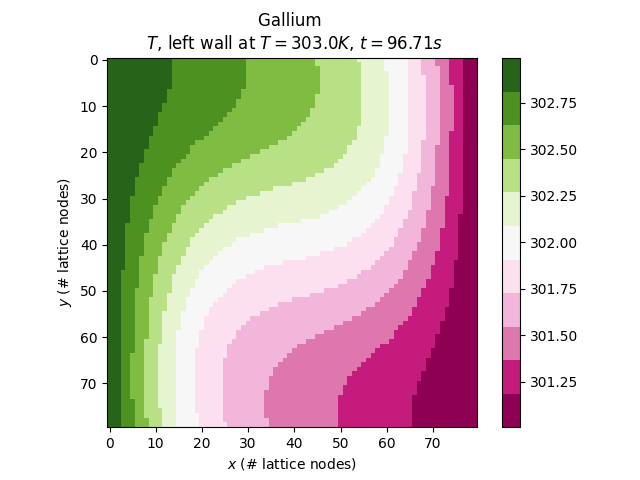
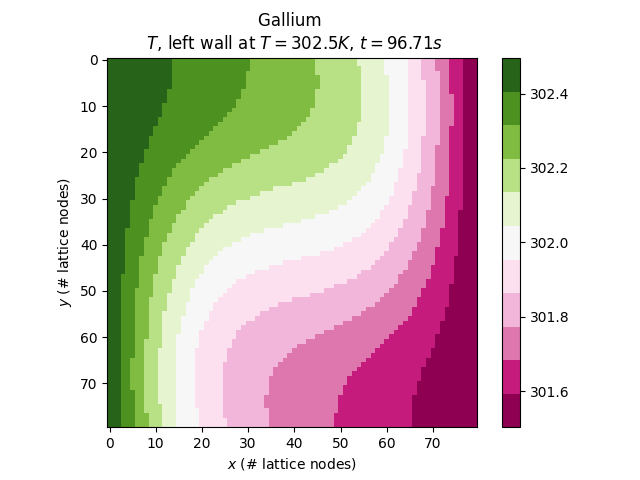
Plots of velocities are correct 26 mei

diff --git a/Working code/LBM_Tlin_MRT_natural_conv.py b/Working code/LBM_Tlin_MRT_natural_conv.py
@@ -11,8 +11,8 @@ np.set_printoptions(threshold=sys.maxsize)
 pd.set_option("display.max_rows", None, "display.max_columns", None)
 pd.set_option('display.expand_frame_repr', False)
 path_name = "/Users/Jesper/Documents/MEP/Code/Working code/Figures/"
-suffix = "_Ra105_test1.png"
-Nresponse = 250000
+suffix = "_Ra105_SRT2.png"
+Nresponse = 125000
 
 # # Physical parameters gallium
 # Time = 1140         # (s)
@@ -41,12 +41,13 @@ nu_phys = 1.568e-5
 beta_phys = 0.0034
 cp_phys = 1.0049e3
 alpha_phys = lbda_phys / (rho_phys * cp_phys)
+print(alpha_phys)
 g_vec_phys = g_phys * np.array([0, -1])
 
 # Setup parameters
 T0_phys = 302
-TH_phys = 303
-TC_phys = 301
+TH_phys = 302
+TC_phys = 302
 
 umax = 0.1
 bc_value = np.array([[0.0, 0.0], [umax, 0.0], [0.0, 0.0], [0.0, 0.0]], dtype=np.float32)
@@ -66,7 +67,7 @@ Pr = nu_phys / alpha_phys
 Ra = beta_phys * (TH_phys - TC_phys) * g_phys * H**3 / (nu_phys * alpha_phys)
 
 # Simulation parameters
-tau = 0.512
+tau = 0.524
 tau_inv = 1/tau
 Nx = 80
 Ny = Nx #np.int(0.714*Nx)
@@ -105,7 +106,8 @@ g_vec = g_vec_phys / Cg
 TH = beta_phys * (TH_phys - T0_phys)
 TC = beta_phys * (TC_phys - T0_phys)
 
-Ra_LB = (TH_phys - TC_phys) * g_phys
+Ra_LB = (TH - TC) * np.linalg.norm(g_vec) * Nx**3 / (nu * alpha)
+print("Ra_LB", Ra_LB)
 
 # Collision operators
 M_rho = np.ones(q)
@@ -197,15 +199,13 @@ def f_eq(rho, vel, feq):
 def collision_speedup(Omegaf, f, Si):
     Bi = np.zeros((Nx, Ny, q))
     f_new = f - Omegaf + Si
-    # easy_view("S2", Si[:, :, 2])
-    # easy_view("f2", f[:, :, 2])
-    # easy_view("f_new2", f_new[:, :, 2])
 
     return f_new
 
 
 def collision(r, u, f_old, Si):
-    Omegaf = np.einsum('ij,klj->kli', MSM, f_old - f_eq(r, u, f_old))
+    # Omegaf = np.einsum('ij,klj->kli', MSM, f_old - f_eq(r, u, f_old))
+    Omegaf = tau_inv * (f_old - f_eq(r, u, f_old))
     # return collision_speedup(Omegaf, f_old, Si)
     return f_old - Omegaf + Si
 
@@ -220,8 +220,8 @@ def forcing(vel, g, Si, F, T):
             jp = j + 1
             # F[i, j, 0] = - T[ip, jp] * g[0] * rho0
             # F[i, j, 1] = - T[ip, jp] * g[1] * rho0
-            F[i, j, 0] = - T[ip, jp] * g[0]
-            F[i, j, 1] = - T[ip, jp] * g[1]
+            F[i, j, 0] = - T[ip, jp] * g[0] * rho[i, j]
+            F[i, j, 1] = - T[ip, jp] * g[1] * rho[i, j]
             for k in range(q):
                 eF = F[i, j, 0]*e[k, 0]+F[i, j, 1]*e[k, 1]
                 Si[i, j, k] = (1 - 1/(2*tau)) * w[k] * (3 * eF +
@@ -241,12 +241,6 @@ def temperature(T_iter, c_app_iter, ux, uy, rho, T_dim_C, T_dim_H, t):
         ip = i + 1
         jp = j + 1
         a_app = lbda / (c_app[im, jm] * rho[im, jm])
-        # T_new = T[i, j] * (1 - 6 * a_app) + T[i+1, j] * (-ux[im, jm] + 2 * a_app) + T[im, j] * (ux[im, jm] + 2 * a_app) + \
-            # T[i, jp] * (-uy[im, jm] + 2 * a_app) + T[i, jp] * (uy[im, jm] + 2 * a_app) + \
-            # T[ip, jp] * (ux[im, jm] / 4 + uy[im, jm] / 4 - a_app / 2) + \
-            # T[im, jp] * (-ux[im, jm] / 4 + uy[im, jm] / 4 - a_app / 2) + \
-            # T[ip, jm] * (ux[im, jm] / 4 - uy[im, jm] / 4 - a_app / 2) + \
-            # T[im, jm] * (-ux[im, jm] / 4 - uy[im, jm] / 4 - a_app / 2)
         T_new = T[i, j] * (1 - 6 * a_app) + T[i, j-1] * (uy[im, jm] + 2 * a_app) + T[i, j+1] * (-uy[im, jm] + 2 * alpha) + \
                 T[i-1, j-1] * (-ux[im, jm] / 4 - uy[im, jm] / 4 - a_app / 2) + T[i-1, j] * (ux[im, jm] + 2 * a_app) + \
                 T[i-1, j+1] * (-ux[im, jm] / 4 + uy[im, jm] / 4 - a_app / 2) + T[i+1, j-1] * (ux[im, jm] / 4 - uy[im, jm] / 4 - a_app / 2) + \
@@ -279,8 +273,8 @@ def moment_update(rho, vel, f_new, F, B):
                 vel[i, j, 0] = 0
                 vel[i, j, 1] = 0
             else:
-                vel[i, j, 0] = (f_new[i, j, 1] + f_new[i, j, 5] + f_new[i, j, 8] - (f_new[i, j, 3] + f_new[i, j, 6] + f_new[i, j, 7])) / rho[i, j]# + F[i, j, 0] / (2 * rho[i, j])
-                vel[i, j, 1] = (f_new[i, j, 2] + f_new[i, j, 5] + f_new[i, j, 6] - (f_new[i, j, 4] + f_new[i, j, 7] + f_new[i, j, 8])) / rho[i, j]# + F[i, j, 1] / (2 * rho[i, j])
+                vel[i, j, 0] = (f_new[i, j, 1] + f_new[i, j, 5] + f_new[i, j, 8] - (f_new[i, j, 3] + f_new[i, j, 6] + f_new[i, j, 7])) / rho[i, j] + F[i, j, 0] / (2 * rho[i, j])
+                vel[i, j, 1] = (f_new[i, j, 2] + f_new[i, j, 5] + f_new[i, j, 6] - (f_new[i, j, 4] + f_new[i, j, 7] + f_new[i, j, 8])) / rho[i, j] + F[i, j, 1] / (2 * rho[i, j])
 
     return rho, vel, f_new
 
@@ -295,8 +289,7 @@ def solve(h, c_app, fL, B):
         f_col = collision(rho, vel, f_old, Si)
         f_str = streaming(rho, f_old, f_col)
 
-        if t == 20000:
-            pass
+        if t == 120000:
             # easy_view("f2", f_str[:, :, 2])
             # easy_view("f5", f_str[:, :, 5])
             # easy_view("f6", f_str[:, :, 6])
@@ -313,108 +306,132 @@ def solve(h, c_app, fL, B):
             # easy_view("S8", Si[:, :, 8])
             # easy_view("Fx", F[:, :, 0])
             # easy_view("Fy", F[:, :, 1])
-            # easy_view("vel", vel[:, :, 1])
+            # easy_view("vely", vel[:, :, 1])
+            # easy_view("vely.T", np.flip(vel[:, :, 1], axis=1))
+            # easy_view("velx", vel[:, :, 0])
+            pass
 
-        if t % 2500 == 1:
+        if t % 2500 == 0:
             print(t)
-            if t == 1:
+            if t == 0:
                 begin = time.time()
-            if t == 5001:
+            if t == 7500:
                 end = time.time()
-                runtime = (end - begin) * Nt / 5000
-                mins = np.int(runtime/60)
-                secs = np.int(runtime-60*mins)
-                print(f"Estimated runtime: {mins}:{secs} minutes.")
+                runtime = (end - begin) * Nt / 7500
+                mins = np.round(runtime/60, 1)
+                print(f"Estimated runtime: {mins} minutes.")
 
-        if t % Nresponse == 0 and t != 0:
-            T_phys = T / beta_phys + T0_phys
-            TH_phys = TH / beta_phys + T0_phys
-            ux_phys = vel[:, :, 0] * Cu * L / alpha_phys
-            uy_phys = vel[:, :, 1] * Cu * L / alpha_phys
+        # if t % Nresponse == 0 and t != 0:
+    T_phys = T / beta_phys + T0_phys
+    TH_phys = TH / beta_phys + T0_phys
+    ux_phys = vel[:, :, 0] * Cu * L / alpha_phys
+    uy_phys = vel[:, :, 1] * Cu * L / alpha_phys
 
-            print("u", np.max(ux_phys))
-            print("w", np.max(uy_phys))
+    print("u_LB", np.max(vel[:, :, 0]))
+    print("w_LB", np.max(vel[:, :, 1]))
+    print("u", np.max(ux_phys))
+    print("w", np.max(uy_phys))
 
 
-            # # Liquid fraction
-            # plt.figure()
-            # plt.imshow(fL.T, cmap=cm.autumn, origin='lower', aspect=1.0)
-            # plt.xlabel('$x$ (# lattice nodes)')
-            # plt.ylabel('$y$ (# lattice nodes)')
-            # plt.title(f'Gallium \n $f_l$, left wall at $T={TH_phys}K$, $t={np.round(t/Nt*Time, decimals=2)}s$')
-            # plt.colorbar()
-            # plt.savefig(path_name + f"heatmap_fl_t={np.round(t/Nt*Time, decimals=2)}_N{Nx}" + suffix)
+    # # Liquid fraction
+    # plt.figure()
+    # plt.imshow(fL.T, cmap=cm.autumn, origin='lower', aspect=1.0)
+    # plt.xlabel('$x$ (# lattice nodes)')
+    # plt.ylabel('$y$ (# lattice nodes)')
+    # plt.title(f'Gallium \n $f_l$, left wall at $T={TH_phys}K$, $t={np.round(t/Nt*Time, decimals=2)}s$')
+    # plt.colorbar()
+    # plt.savefig(path_name + f"heatmap_fl_t={np.round(t/Nt*Time, decimals=2)}_N{Nx}" + suffix)
 
-            # Streamlines velocity
-            plt.clf()
-            plt.figure()
-            ux = ux_phys.T
-            uy = np.flip(uy_phys, axis=1).T
-            x  = np.linspace(0, 1, Nx)
-            y  = np.linspace(0, 1, Ny)
-            u  = np.linspace(0, 1, 100)
-            g  = np.meshgrid(u,u)
-            str_pts = list(zip(*(x.flat for x in g)))
-            plt.streamplot(x, y, ux, uy,
-                           linewidth    = 1.5,
-                           cmap         = 'RdBu_r',
-                           arrowstyle   = '-',
-                           start_points = str_pts,
-                           density      = 3)
-            plt.xlabel('$x$ (# lattice nodes)')
-            plt.ylabel('$y$ (# lattice nodes)')
-            plt.savefig(path_name + f"streamlines_u_t={np.round(t/Nt*Time, decimals=2)}_N{Nx}" + suffix)
-            plt.close()
+    # Streamlines velocity
+    uy_plot = np.rot90(uy_phys)
+    ux_plot = ux_phys.T
 
-            # Velocities
-            plt.figure()
-            plt.clf()
-            plt.imshow(np.flip(uy_phys, axis=1).T, cmap=cm.Blues)
-            plt.xlabel('$x$ (# lattice nodes)')
-            plt.ylabel('$y$ (# lattice nodes)')
-            plt.title(f'Gallium \n $u_y$, left wall at $T={TH_phys}K$, $t={np.round(t/Nt*Time, decimals=2)}s$')
-            plt.colorbar()
-            plt.savefig(path_name + f"heatmap_uy_t={np.round(t/Nt*Time, decimals=2)}_N{Nx}" + suffix)
+    plt.clf()
+    plt.figure()
+    x = np.linspace(0, 1, Nx)
+    y = np.linspace(0, 1, Ny)
+    u = np.linspace(0, 1, 100)
+    g = np.meshgrid(u, u)
+    str_pts = list(zip(*(x.flat for x in g)))
+    plt.streamplot(x, y, ux_plot, uy_plot,
+                   linewidth    = 1.5,
+                   cmap         = 'RdBu_r',
+                   arrowstyle   = '-',
+                   start_points = str_pts,
+                   density      = 3)
+    plt.xlabel('$x$ (# lattice nodes)')
+    plt.ylabel('$y$ (# lattice nodes)')
+    plt.savefig(path_name + f"streamlines_u_t={np.round(t/Nt*Time, decimals=2)}_N{Nx}" + suffix)
+    plt.close()
 
-            plt.figure()
-            plt.clf()
-            plt.imshow(ux_phys.T, cmap=cm.Blues, origin='lower')
-            plt.xlabel('$x$ (# lattice nodes)')
-            plt.ylabel('$y$ (# lattice nodes)')
-            plt.title(f'Gallium \n $u_x$, left wall at $T={TH_phys}K$, $t={np.round(t/Nt*Time, decimals=2)}s$')
-            plt.colorbar()
-            plt.savefig(path_name + f"heatmap_ux_t={np.round(t/Nt*Time, decimals=2)}_N{Nx}" + suffix)
+    # Contour plots
+    X, Y = np.meshgrid(x, y)
+    plt.figure()
+    CS = plt.contour(X, Y, np.flip(uy_plot, axis=1))
+    plt.clabel(CS, inline=True)
+    plt.xlabel('$x$ (# lattice nodes)')
+    plt.ylabel('$y$ (# lattice nodes)')
+    plt.title(f'Gallium \n $u_y$, left wall at $T={TH_phys}K$, $t={np.round(t/Nt*Time, decimals=2)}s$')
+    plt.savefig(path_name + f"contour_uy_t={np.round(t/Nt*Time, decimals=2)}_N{Nx}" + suffix)
 
-            ## Temperature heatmap
-            cmap = cm.get_cmap('PiYG', 11)
-            plt.figure()
-            plt.clf()
-            plt.imshow(np.flip(T_phys[1:-1, 1:-1].T, axis=0), cmap=cmap)
-            plt.xlabel('$x$ (# lattice nodes)')
-            plt.ylabel('$y$ (# lattice nodes)')
-            plt.title(f'Gallium \n $T$, left wall at $T={TH_phys}K$, $t={np.round(t/Nt*Time, decimals=2)}s$')
-            plt.colorbar()
-            plt.savefig(path_name + f"heatmap_T_t={np.round(t/Nt*Time, decimals=2)}_N{Nx}" + suffix)
+    plt.figure()
+    plt.clf()
+    CS = plt.contour(X, Y, ux_plot)
+    plt.clabel(CS, inline=True)
+    plt.xlabel('$x$ (# lattice nodes)')
+    plt.ylabel('$y$ (# lattice nodes)')
+    plt.title(f'Gallium \n $u_x$, left wall at $T={TH_phys}K$, $t={np.round(t/Nt*Time, decimals=2)}s$')
+    plt.savefig(path_name + f"contour_ux_t={np.round(t/Nt*Time, decimals=2)}_N{Nx}" + suffix)
 
-            # plt.figure()
-            # plt.clf()
-            # plt.imshow(np.flip(rho, axis=1).T, cmap=cm.Blues)
-            # plt.xlabel('$x$ (# lattice nodes)')
-            # plt.ylabel('$y$ (# lattice nodes)')
-            # plt.title(f'$\\rho$ in cavity with left wall at $T={TH}K$')
-            # plt.colorbar()
-            # plt.savefig(path_name + f"heatmap_rho_t={np.round(t/Nt*Time, decimals=2)}" + suffix)
+    # Velocities
+    plt.figure()
+    plt.clf()
+    plt.imshow(uy_plot, cmap=cm.Blues)
+    plt.xlabel('$x$ (# lattice nodes)')
+    plt.ylabel('$y$ (# lattice nodes) ')
+    plt.title(f'Gallium \n $u_y$, left wall at $T={TH_phys}K$, $t={np.round(t/Nt*Time, decimals=2)}s$')
+    plt.colorbar()
+    plt.savefig(path_name + f"heatmap_uy_t={np.round(t/Nt*Time, decimals=2)}_N{Nx}" + suffix)
 
-            # Vector plot
-            plt.figure()
-            plt.quiver(ux_phys.T, uy_phys.T)
-            plt.xlabel('$x$ (# lattice nodes)')
-            plt.ylabel('$y$ (# lattice nodes)')
-            plt.title(f'Gallium \n $u$ in pipe with left wall at $T={TH_phys}K$, $t={np.round(t/Nt*Time, decimals=2)}s$')
-            # plt.legend('Velocity vector')
-            plt.savefig(path_name + f"arrowplot_t={np.round(t/Nt*Time, decimals=2)}_N{Nx}" + suffix)
+    plt.figure()
+    plt.clf()
+    plt.imshow(ux_plot, cmap=cm.Blues, origin='lower')
+    plt.xlabel('$x$ (# lattice nodes)')
+    plt.ylabel('$y$ (# lattice nodes)')
+    plt.title(f'Gallium \n $u_x$, left wall at $T={TH_phys}K$, $t={np.round(t/Nt*Time, decimals=2)}s$')
+    plt.colorbar()
+    plt.savefig(path_name + f"heatmap_ux_t={np.round(t/Nt*Time, decimals=2)}_N{Nx}" + suffix)
 
-            plt.close('all')
+    ## Temperature heatmap
+    cmap = cm.get_cmap('PiYG', 11)
+    plt.figure()
+    plt.clf()
+    plt.imshow(np.flip(T_phys[1:-1, 1:-1].T, axis=0), cmap=cmap)
+    plt.xlabel('$x$ (# lattice nodes)')
+    plt.ylabel('$y$ (# lattice nodes)')
+    plt.title(f'Gallium \n $T$, left wall at $T={TH_phys}K$, $t={np.round(t/Nt*Time, decimals=2)}s$')
+    plt.colorbar()
+    plt.savefig(path_name + f"heatmap_T_t={np.round(t/Nt*Time, decimals=2)}_N{Nx}" + suffix)
+
+    # plt.figure()
+    # plt.clf()
+    # plt.imshow(np.flip(rho, axis=1).T, cmap=cm.Blues)
+    # plt.xlabel('$x$ (# lattice nodes)')
+    # plt.ylabel('$y$ (# lattice nodes)')
+    # plt.title(f'$\\rho$ in cavity with left wall at $T={TH}K$')
+    # plt.colorbar()
+    # plt.savefig(path_name + f"heatmap_rho_t={np.round(t/Nt*Time, decimals=2)}" + suffix)
+
+    # Vector plot
+    plt.figure()
+    plt.quiver(ux_plot, 0*np.flip(uy_plot, axis=1))
+    plt.xlabel('$x$ (# lattice nodes)')
+    plt.ylabel('$y$ (# lattice nodes)')
+    plt.title(f'Gallium \n $u$ in pipe with left wall at $T={TH_phys}K$, $t={np.round(t/Nt*Time, decimals=2)}s$')
+    # plt.legend('Velocity vector')
+    plt.savefig(path_name + f"arrowplot_t={np.round(t/Nt*Time, decimals=2)}_N{Nx}" + suffix)
+
+    plt.close('all')
 
     # # Make arrays from lists
     # t_phys = np.array(t_phys)

diff --git a/Working code/streaming_funcs.py b/Working code/streaming_funcs.py
@@ -65,8 +65,8 @@ def top_bottom_wall(Nx, Ny, f_new, f_old, w, r, bc_value):
         f_new[i, j, 4] = f_old[i, j, 2]
         f_new[i, j, 5] = f_old[i - 1, j - 1, 5]
         f_new[i, j, 6] = f_old[i + 1, j - 1, 6]
-        f_new[i, j, 7] = f_old[i, j, 5] #- 6 * w[5] * r[i, j] * bc_value[1, 0]
-        f_new[i, j, 8] = f_old[i, j, 6] #+ 6 * w[6] * r[i, j] * bc_value[1, 0]
+        f_new[i, j, 7] = f_old[i, j, 5] - 6 * w[5] * r[i, j] * bc_value[1, 0]
+        f_new[i, j, 8] = f_old[i, j, 6] + 6 * w[6] * r[i, j] * bc_value[1, 0]
 
     return f_new
 
@@ -114,8 +114,8 @@ def top_corners(Nx, Ny, f_new, f_old, w, r, bc_value):
     f_new[i, j, 4] = f_old[i, j, 2]
     f_new[i, j, 5] = f_old[i - 1, j - 1, 5]
     f_new[i, j, 6] = f_old[i, j, 8]
-    f_new[i, j, 7] = f_old[i, j, 5] #- 6 * w[5] * r[i, j] * bc_value[1, 0]
-    f_new[i, j, 8] = f_old[i, j, 6] #+ 6 * w[6] * r[i, j] * bc_value[1, 0]
+    f_new[i, j, 7] = f_old[i, j, 5] - 6 * w[5] * r[i, j] * bc_value[1, 0]
+    f_new[i, j, 8] = f_old[i, j, 6] + 6 * w[6] * r[i, j] * bc_value[1, 0]
 
     # Top left corner
     i = 0
@@ -127,8 +127,8 @@ def top_corners(Nx, Ny, f_new, f_old, w, r, bc_value):
     f_new[i, j, 4] = f_old[i, j, 2]
     f_new[i, j, 5] = f_old[i, j, 7]
     f_new[i, j, 6] = f_old[i + 1, j - 1, 6]
-    f_new[i, j, 7] = f_old[i, j, 5] #- 6 * w[5] * r[i, j] * bc_value[1, 0]
-    f_new[i, j, 8] = f_old[i, j, 6] #+ 6 * w[6] * r[i, j] * bc_value[1, 0]
+    f_new[i, j, 7] = f_old[i, j, 5] - 6 * w[5] * r[i, j] * bc_value[1, 0]
+    f_new[i, j, 8] = f_old[i, j, 6] + 6 * w[6] * r[i, j] * bc_value[1, 0]
 
     return f_new
 

diff --git a/Working code/lbm_Tlin_mrt.py b/Working code/lbm_Tlin_mrt.py
@@ -230,12 +230,11 @@ def temperature(T_iter, h_old, c_app_iter, f_l_old, ux, uy, rho, T_dim_C, T_dim_
         ip = i + 1
         jp = j + 1
         a_app = lbda / (c_app[im, jm] * rho[im, jm])
-        T_new = T[i, j] * (1 - 6 * a_app) + T[i+1, j] * (-ux[im, jm] + 2 * a_app) + T[im, j] * (ux[im, jm] + 2 * a_app) + \
-            T[i, jp] * (-uy[im, jm] + 2 * a_app) + T[i, jp] * (uy[im, jm] + 2 * a_app) + \
-            T[ip, jp] * (ux[im, jm] / 4 + uy[im, jm] / 4 - a_app / 2) + \
-            T[im, jp] * (-ux[im, jm] / 4 + uy[im, jm] / 4 - a_app / 2) + \
-            T[ip, jm] * (ux[im, jm] / 4 - uy[im, jm] / 4 - a_app / 2) + \
-            T[im, jm] * (-ux[im, jm] / 4 - uy[im, jm] / 4 - a_app / 2) - (h[im, jm] - h_old[im, jm]) / c_app[im, jm]
+        T_new = T[i, j] * (1 - 6 * a_app) + T[i, j-1] * (uy[im, jm] + 2 * a_app) + T[i, j+1] * (-uy[im, jm] + 2 * alpha) + \
+                T[i-1, j-1] * (-ux[im, jm] / 4 - uy[im, jm] / 4 - a_app / 2) + T[i-1, j] * (ux[im, jm] + 2 * a_app) + \
+                T[i-1, j+1] * (-ux[im, jm] / 4 + uy[im, jm] / 4 - a_app / 2) + T[i+1, j-1] * (ux[im, jm] / 4 - uy[im, jm] / 4 - a_app / 2) + \
+                T[i+1, j] * (-ux[im, jm] + 2 * a_app) + T[i+1, j+1] * (ux[im, jm] / 4 + uy[im, jm] / 4 - a_app / 2) - \
+                (h[im, jm] - h_old[im, jm]) / c_app[im, jm]
 
         return T_new
 
